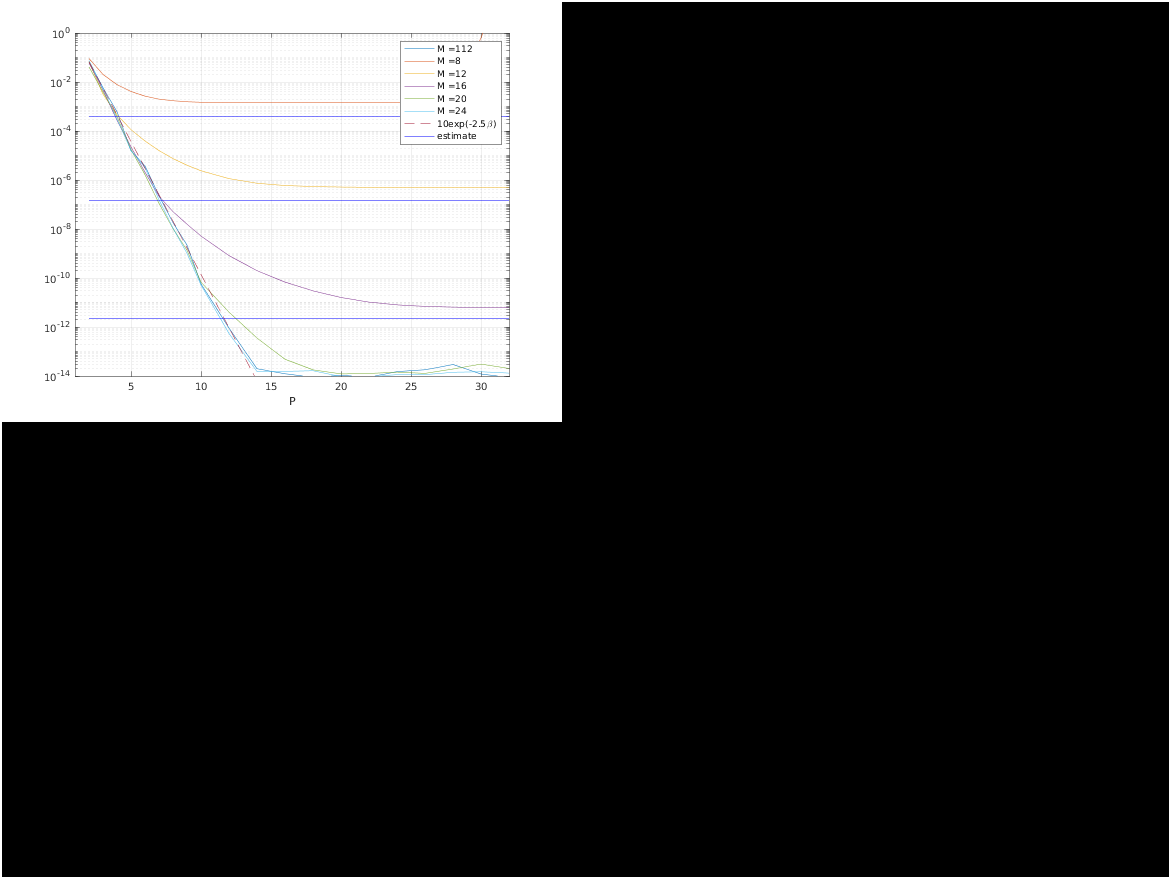
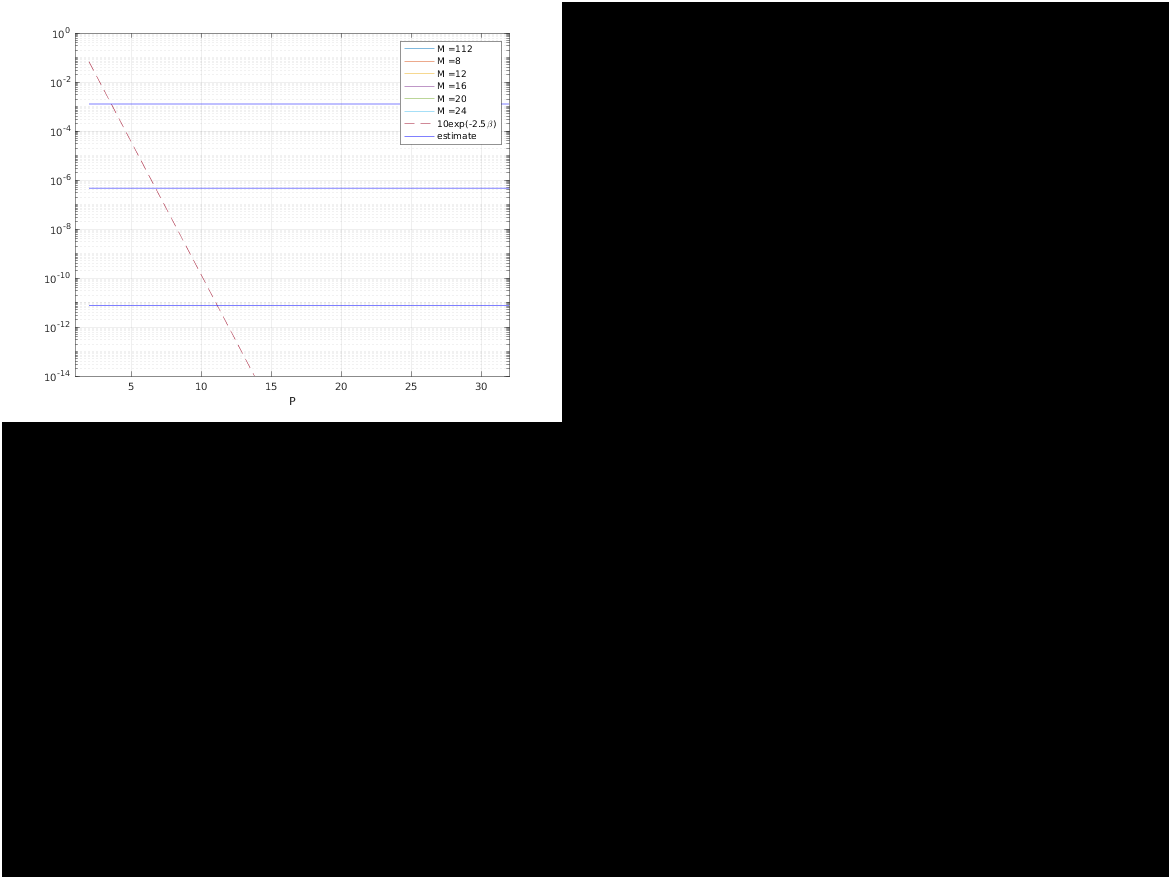
results

diff --git a/SE_Stokes_run/SE3P_Stokes/MP_times.m b/SE_Stokes_run/SE3P_Stokes/MP_times.m
@@ -52,10 +52,9 @@ est = @(M,xi,L,f) sqrt(f)*(4/(3^(1/4)*L*pi))*exp(-(pi*M/(xi*L*2))^2);
 e_vec = [];
 F = sum(norm(f.^2));
 A = @(a,b,c) sqrt(a)*b*(b*c);
-disp(num2str(A(F,opt.xi,opt.box(1))/rms_ref))
 PP = [2:1:10,10:2:32];
 times = zeros(length(MM),length(PP));
-for M = [112 MM]
+for M = MM
     Midx = (find(M==MM));
 	opt.M = M*[1,1,1];
 	rms_err = [];
@@ -64,33 +63,23 @@ for M = [112 MM]
     		opt.P = P;
             t = tic;
     		u = SE3P_Stokes(1:N, x, f, opt);
-            times(Midx,Pidx) = toc-t;
+            times(Midx,Pidx) = toc(t);
     		rms_err = [rms_err rmse(u-ref)];	
     end
     e = est(M,opt.xi,L,F);
     e_vec = [e_vec, e];
-	semilogy(PP,rms_err)
-   
+    disp(length(rms_err))
+    disp(length(times(Midx,:)))
+	semilogy(times(Midx,:),rms_err)  
 	hold on
 	str = [str strcat('M = ',num2str(M))];
 end
 disp(times(1,:))
-if(strcmp(opt.window,'kaiser_exact'))
-semilogy(PP,10*exp(-2.5.*PP),'--')
-str = [str ,'10exp(-2.5\beta)'];
-else
-semilogy(PP,exp(-(pi/2)*PP*opt.c),'--')
-str = [str,'exp(-(\pi/2)Pc)'];
-end
-for i = 1:length(e_vec)
-    semilogy(PP,ones(1,length(PP))*e_vec(i),('bl-'))
-end
-str = [str,'estimate'];
 legend(str)
 xlabel('P')
 xlim([1,32])
 ylim([10^-14,1])
 grid on
-exportgraphics(gcf,'error_P.png')
-xlim([1,15])
+exportgraphics(gcf,'P-time-error.png')
+
 exportgraphics(gcf,'error_P_zoom.png')
